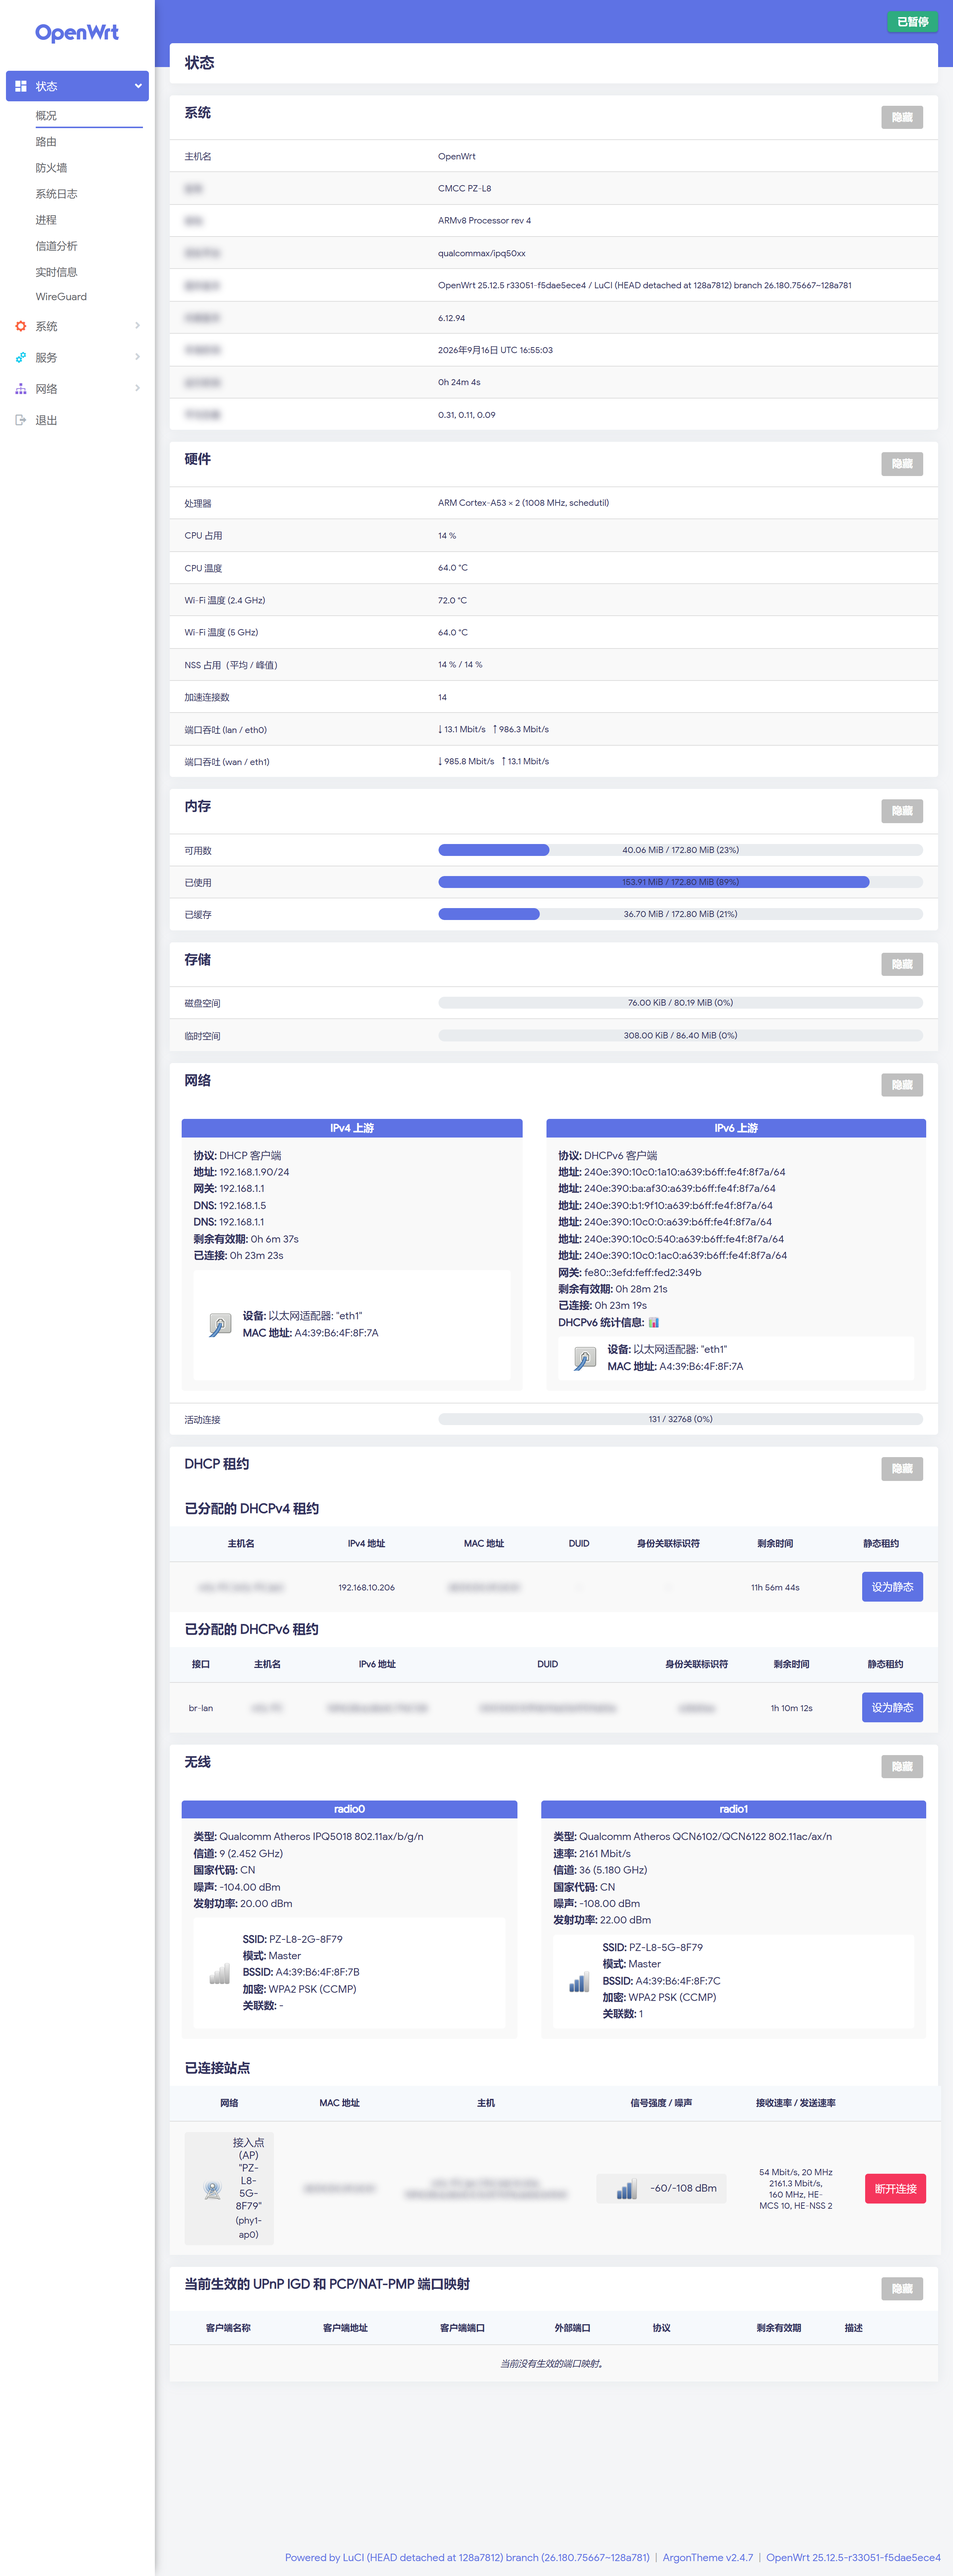
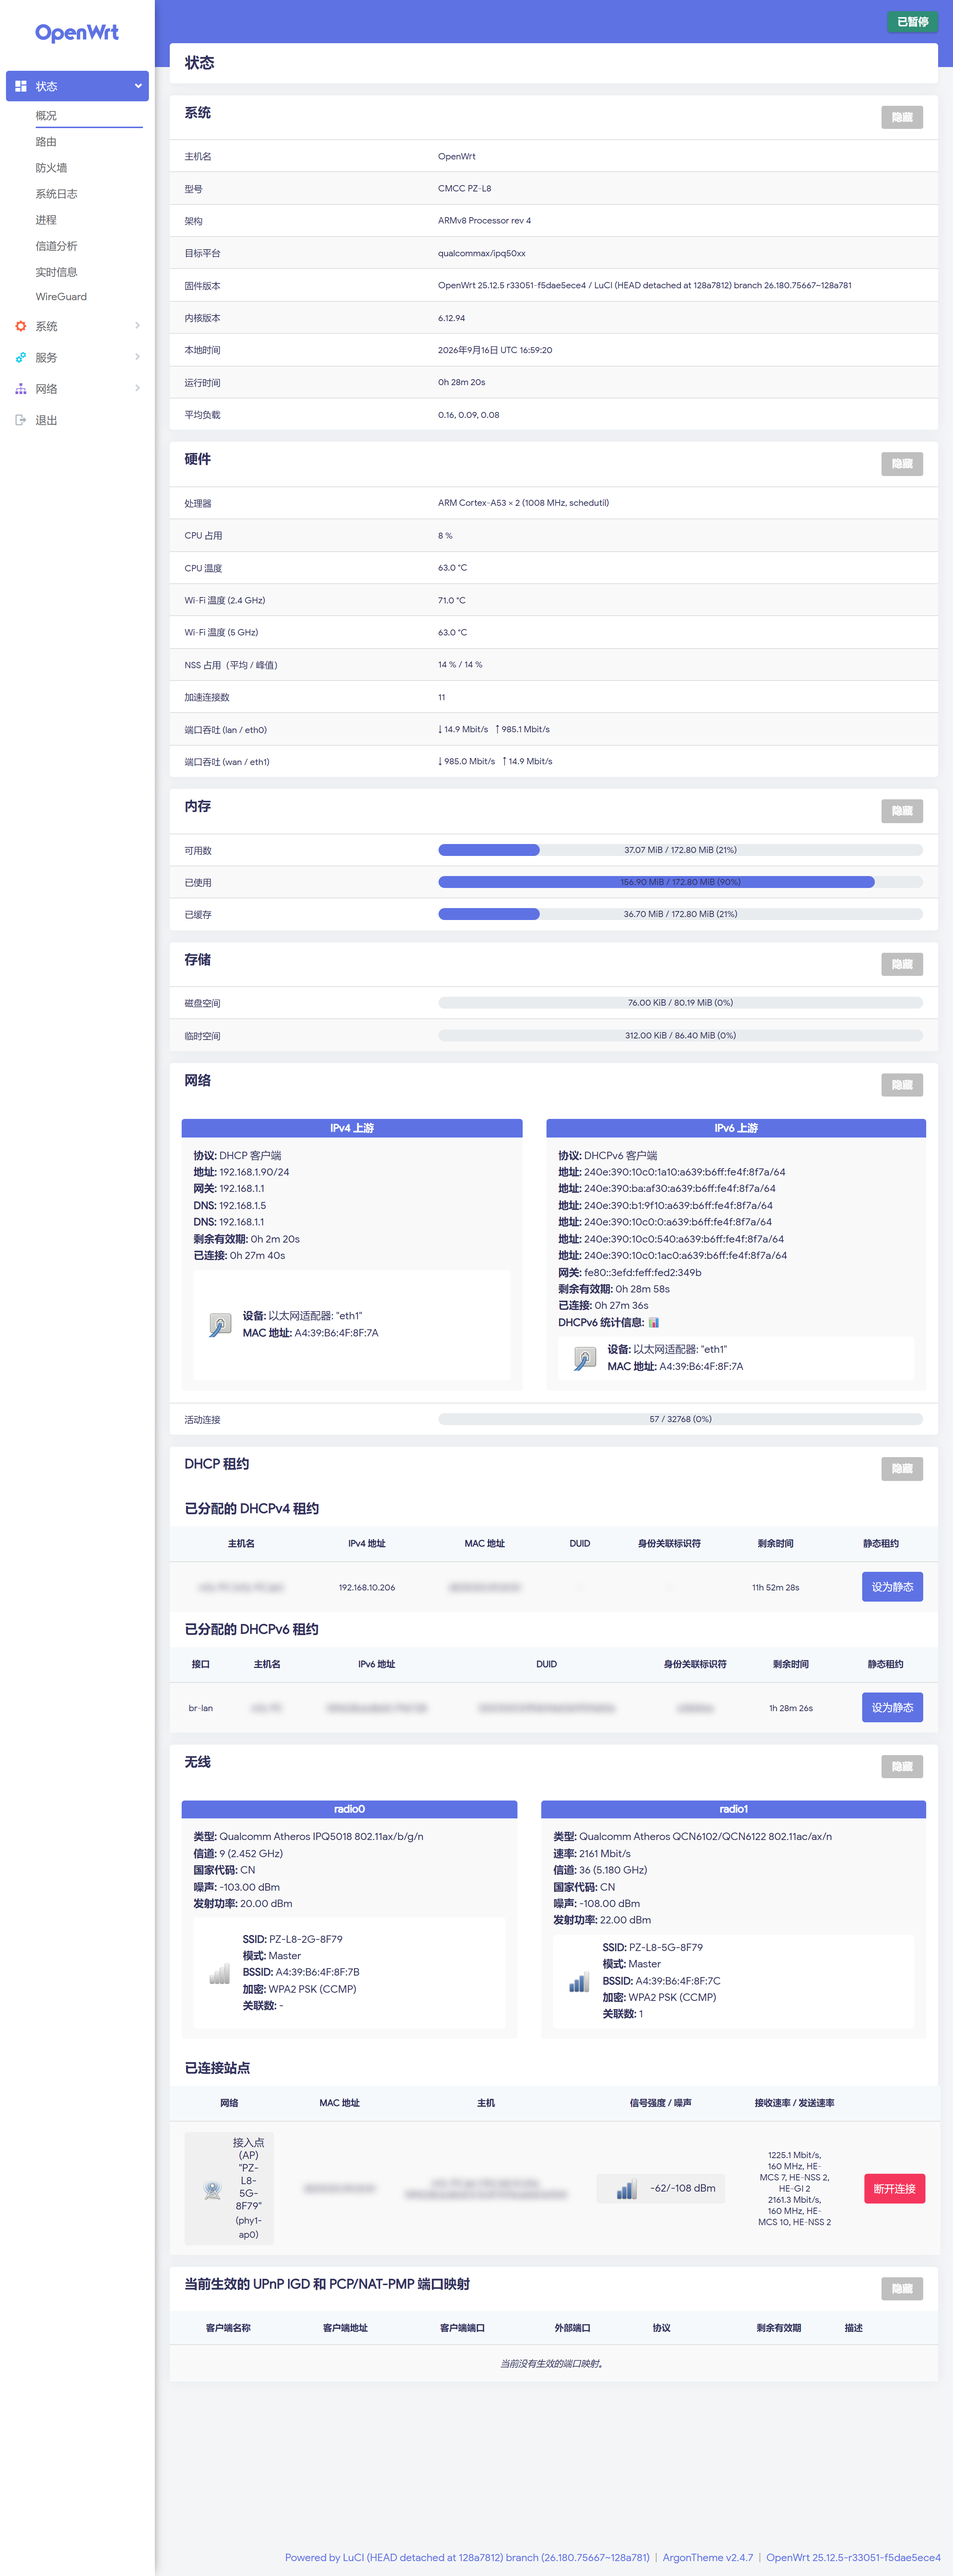
docs: stop the redaction eating the System section's labels
The overview screenshot had every label in the System section smudged - 型号,
架构, 固件版本, 内核版本, 运行时间 and the rest - while their values stayed
readable. Nothing there is worth hiding, and it looked like the page was broken.

Redacting by column header assumed the first row of a table names its columns.
Sections like System are label/value pairs with no header row at all, and their
first row begins with the literal text 主机名, so column 0 was read as a column
named "hostname" and every label below it was covered.

Require a real header row - th or .th - before reading column names. That leaves
exactly the three tables that have one: the two DHCP lease tables and the
associated stations. Ten cells now instead of eighteen, and the script logs
which columns of which table it covered so this is visible without opening the
image.

Re-shot under the same conditions; the numbers in the caption follow the new
image.

[skip ci]

Claude-Session: https://claude.ai/code/session_01PGqumSo7nYaW3Rsh4MdGFB

diff --git a/README.en.md b/README.en.md
@@ -233,14 +233,15 @@ default.**
 
 ### Hardware readouts on the status page
 
-![The status overview page while routing 986 Mbit/s](docs/img/overview.png)
+![The status overview page while routing 985 Mbit/s](docs/img/overview.png)
 
-The whole page, read while **routing 986 Mbit/s**. What this build adds is the
-Hardware section in it: 14 % CPU, 14 % NSS, fourteen accelerated connections,
-and both ports at line rate in opposite directions. The data path is inside the
-NSS cores and the main CPU is largely idle — making that visible is what the
-section is for. The client's hostname, MAC, DUID and addresses are smudged out,
-and the interface is in Chinese by default; see below.
+The whole page, read while **routing 985 Mbit/s**. What this build adds is the
+Hardware section in it: 8 % CPU, 14 % NSS, eleven accelerated connections, and
+both ports at line rate in opposite directions. The data path is inside the NSS
+cores and the main CPU is largely idle — making that visible is what the section
+is for. The only smudged fields are the client hostnames, MACs, DUIDs and
+addresses in the two DHCP lease tables and the associated-stations table. The
+interface is in Chinese by default; see below.
 
 Stock LuCI's overview shows no CPU model, no temperatures and no acceleration
 engine load. The data sources were always there; what was missing was somewhere

diff --git a/README.md b/README.md
@@ -200,12 +200,12 @@ uci commit wireless && wifi reload
 
 ### 状态页上的硬件读数
 
-![状态概览页，截于转发 986 Mbit/s 时](docs/img/overview.png)
+![状态概览页，截于转发 985 Mbit/s 时](docs/img/overview.png)
 
-整页截于**转发 986 Mbit/s 时**。本构建新增的是其中的「硬件」一节：CPU 占用 14 %、
-NSS 占用 14 %、14 条加速连接，两个口一进一出各跑满千兆。数据面在 NSS 核里，主 CPU
-基本是闲着的——这一节存在的意义就是让这件事看得见。客户端的主机名、MAC、DUID 和
-地址做了涂抹处理。
+整页截于**转发 985 Mbit/s 时**。本构建新增的是其中的「硬件」一节：CPU 占用 8 %、
+NSS 占用 14 %、11 条加速连接，两个口一进一出各跑满千兆。数据面在 NSS 核里，主 CPU
+基本是闲着的——这一节存在的意义就是让这件事看得见。图里被涂抹的只有 DHCP 租约和
+已连接站点两处表格中的客户端主机名、MAC、DUID 和地址。
 
 原版 LuCI 的「概览」不显示 CPU 型号、温度和加速引擎占用。数据源一直都在，缺的
 只是展示层，所以这个构建补了一节：
